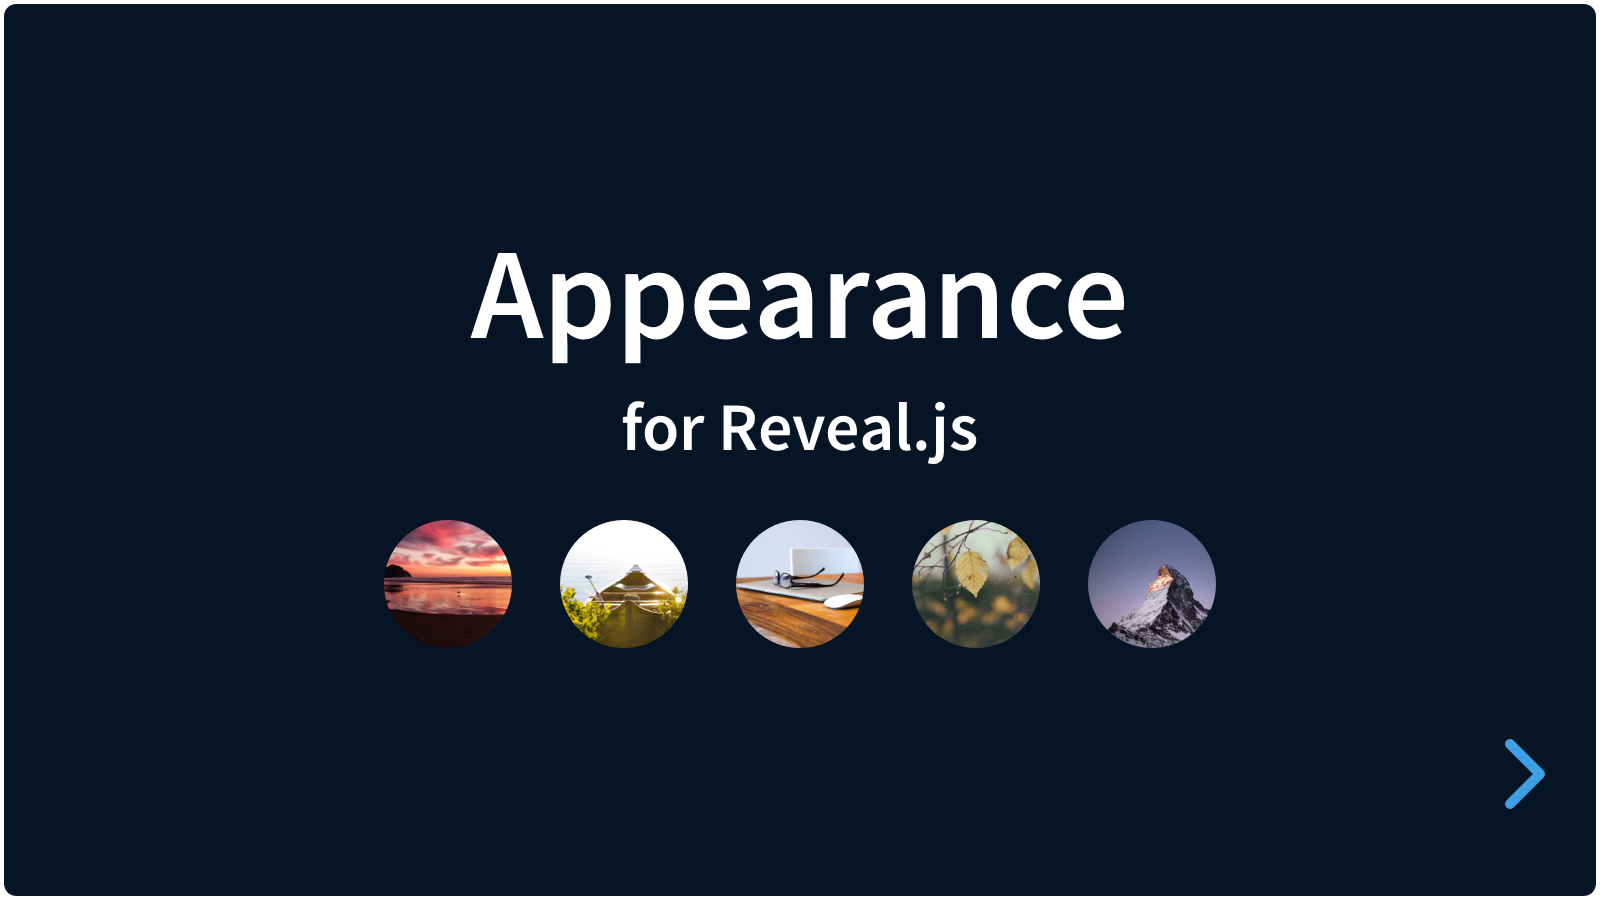
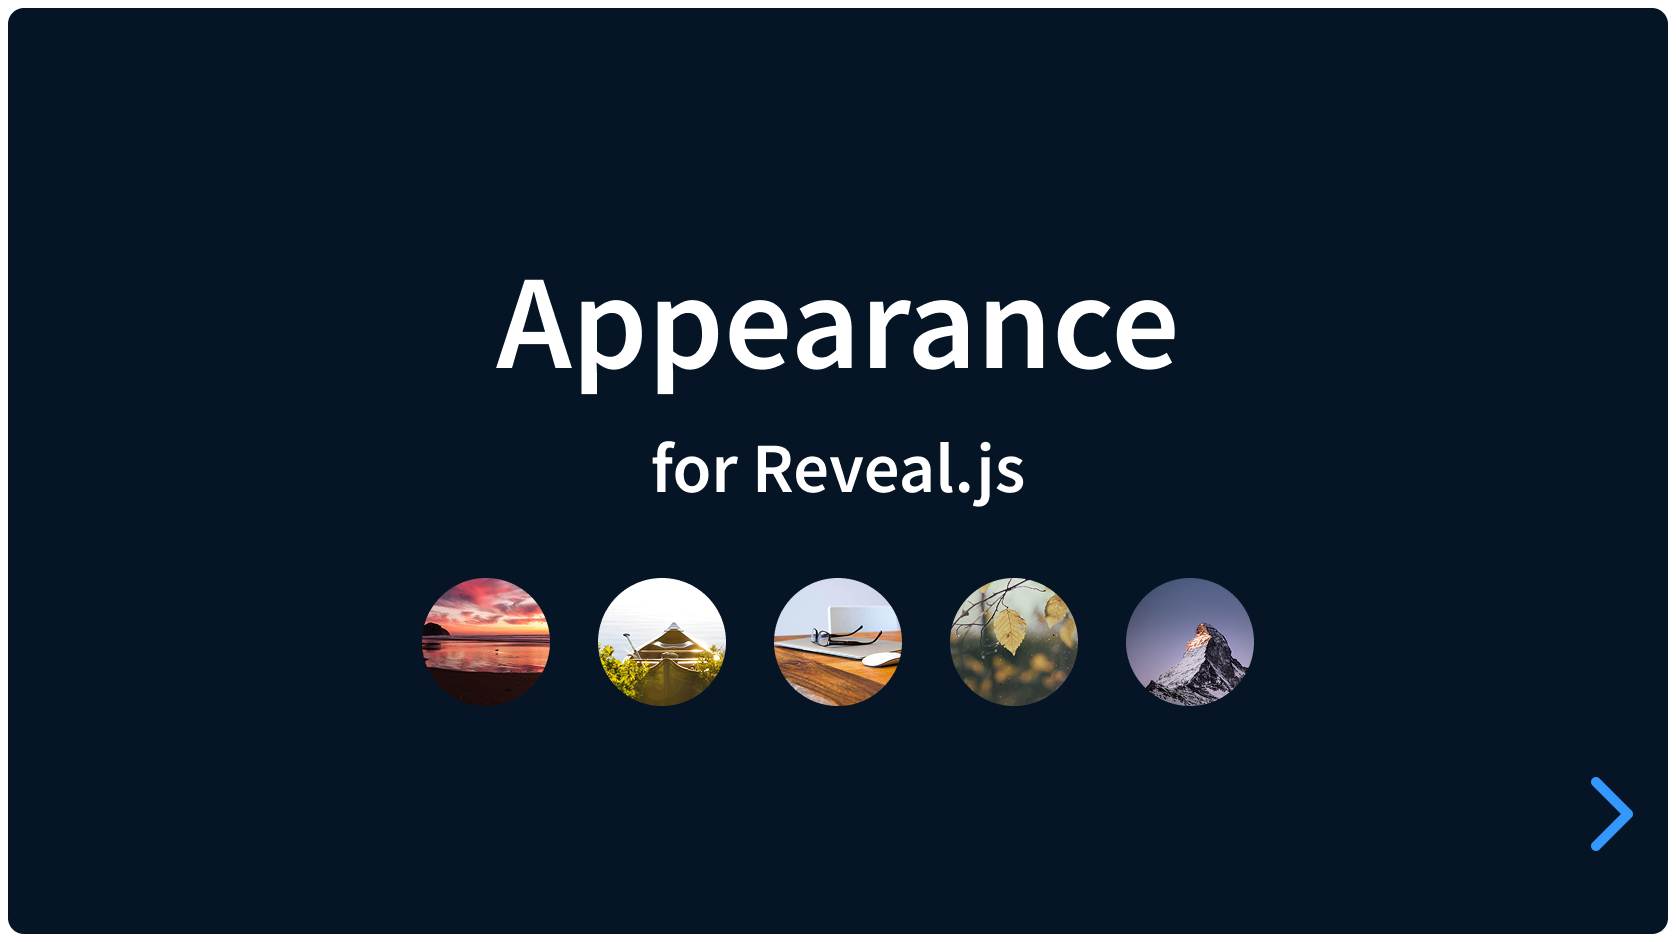
Version 1.4.2

diff --git a/README.md b/README.md
@@ -4,7 +4,7 @@
 
 An animation plugin for [Reveal.js](https://revealjs.com) that animates elements sequentially like in Powerpoint. Perfect for online portfolios or other presentations with images.
 
-[<img src="https://martinomagnifico.github.io/reveal.js-appearance/screenshot.png" width="100%">](https://martinomagnifico.github.io/reveal.js-appearance/demo/demo.html)
+[<img src="screenshot.png" width="100%">](https://martinomagnifico.github.io/reveal.js-appearance/demo/demo.html)
 
 In Powerpoint you can make slides with items that appear automatically with effects. This plugin for Reveal.js tries to achieve the same result. It's easy to set up. It uses Animate.css by Daniel Eden for the animations, with some changes to allow for a non-animated state. 
 

diff --git a/CHANGELOG.md b/CHANGELOG.md
@@ -1,6 +1,6 @@
 # Changelog
 
-## [Unreleased]
+## [1.4.2] - 2026-09-28
 ### Fixed
 - The plugin files, the stylesheet and `package.json` can be imported by path again.
 
